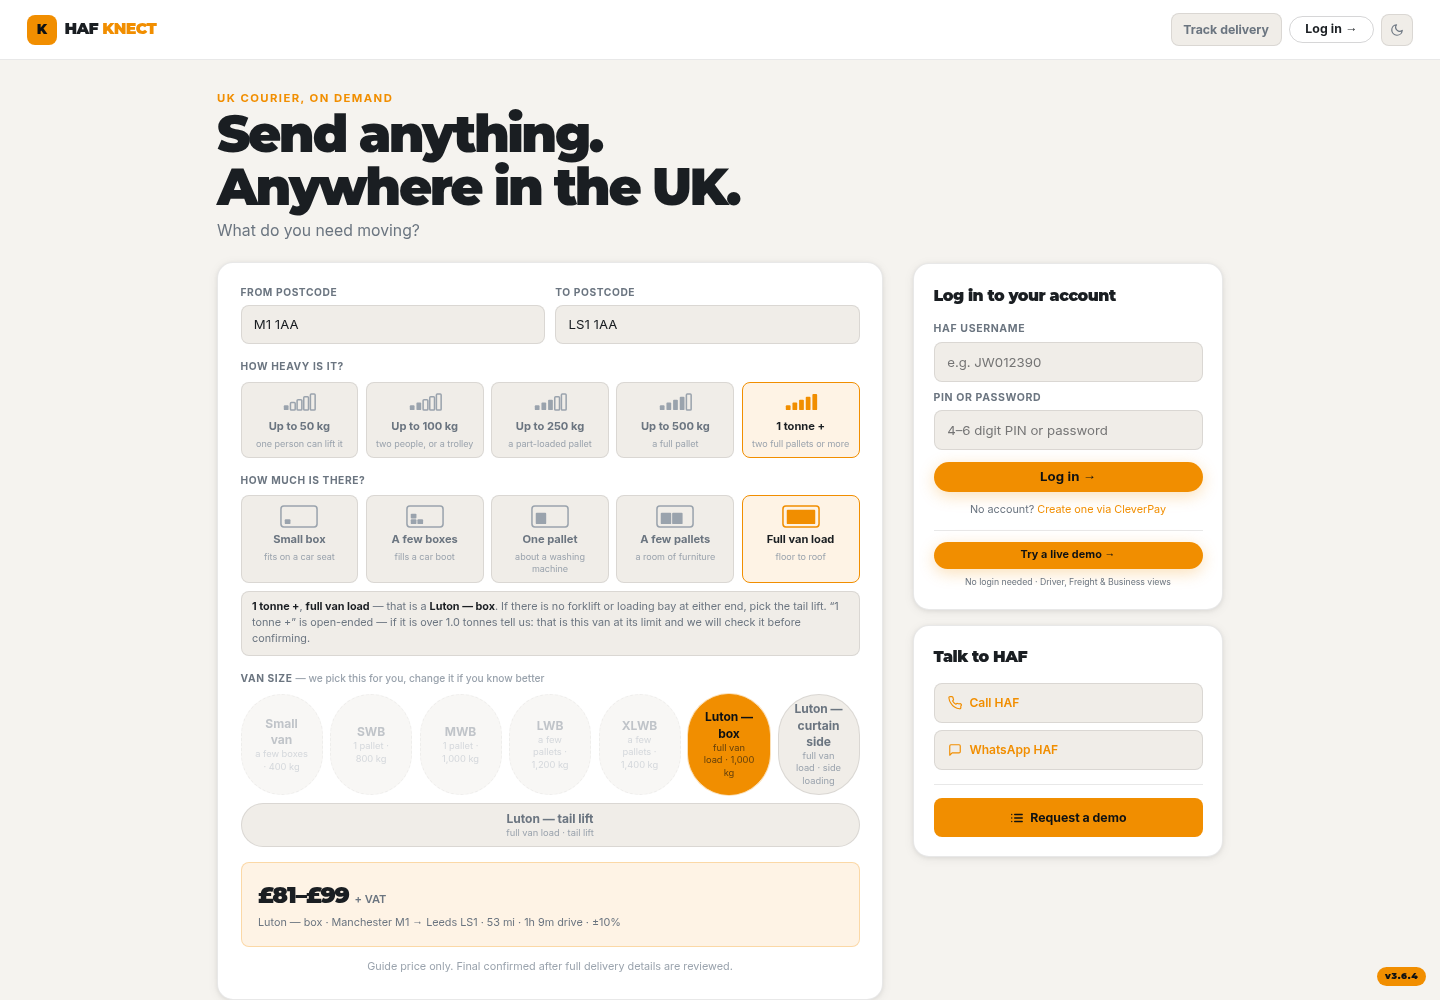
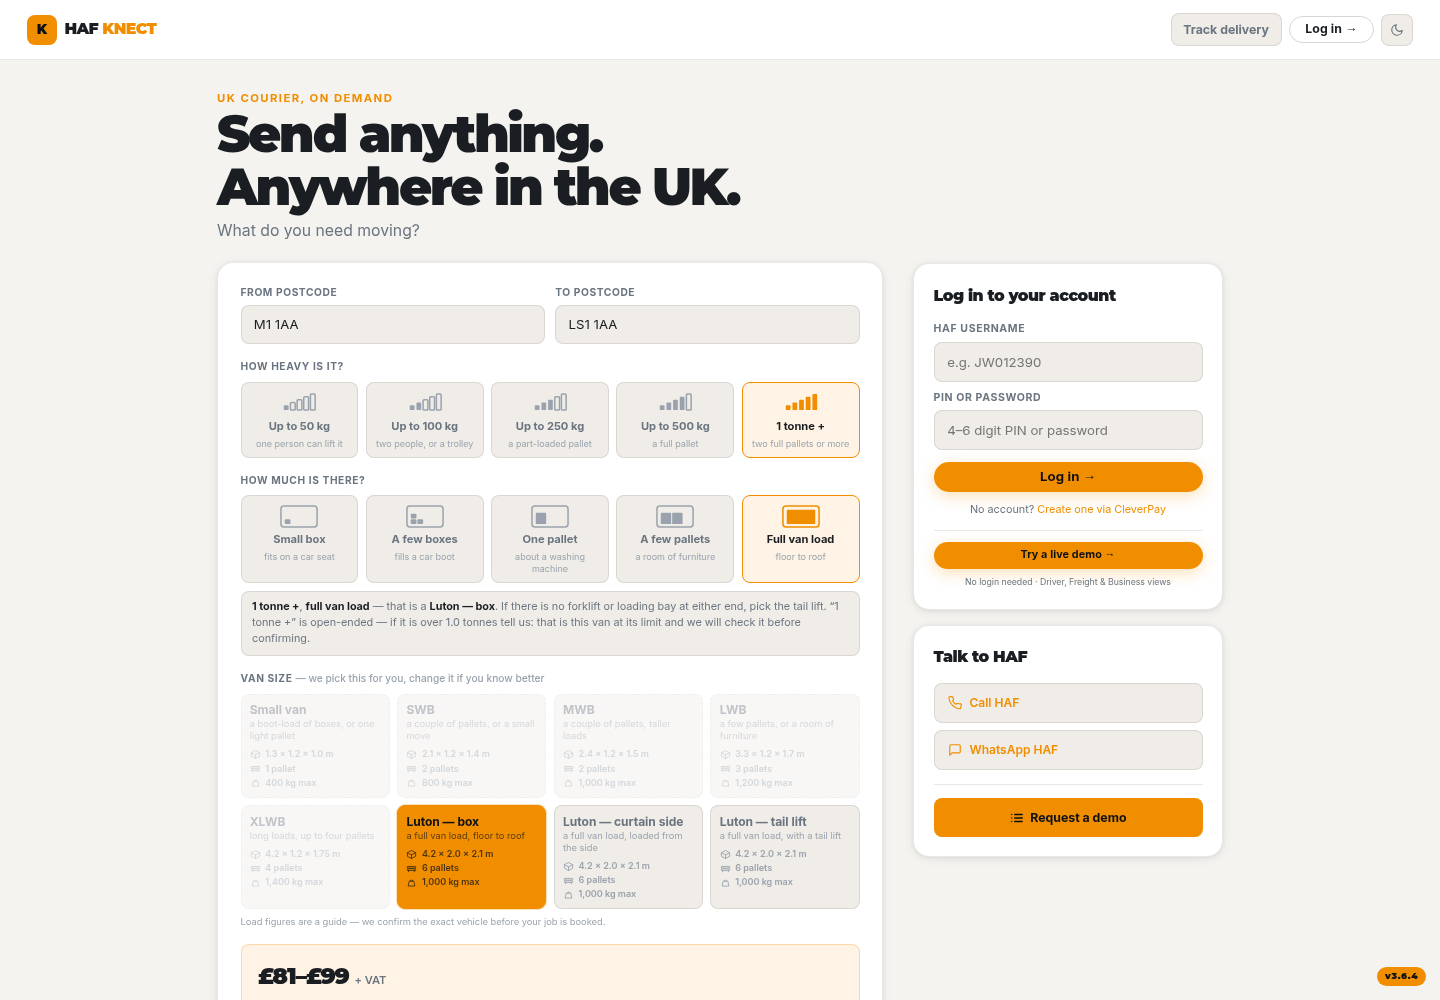
Vehicle cards in the reference layout: load space, pallets, max weight
Brent, 2 Aug, pointing at speedyfreight.com/vehicles: "fantastic layout,
just change the sizing and what can fit". Every vehicle now states the same
three facts in the same order, drawn not written, on both quote paths, built
from the vehicle table so a figure lives in one place only. Our own ladder,
nothing above a Luton. 137 checks, desktop and phone.

Changed region(s): [[0.1562, 0.682, 0.625, 1.0], [0.1875, 0.713, 0.2188, 0.744]]

diff --git a/index.html b/index.html
@@ -476,6 +476,22 @@ textarea.fi2{resize:vertical;min-height:70px}
 #van-pills{display:grid;grid-template-columns:repeat(4,1fr);gap:.5rem}
 #van-pills .vp{flex:none;min-width:0;border-radius:var(--rx);padding:.5rem .55rem}
 @media(max-width:700px){#van-pills{grid-template-columns:repeat(2,1fr)}}
+/* ── VEHICLE CARDS ──
+   Brent's reference (speedyfreight.com/vehicles): every vehicle states its load
+   space, its pallets and its max weight, in the same order, with a drawn icon on
+   each row. Same card on the front calculator and inside Fast Quote. */
+.vp.vcard,.oopt.vcard{display:flex;flex-direction:column;align-items:flex-start;text-align:left;gap:.08rem}
+.vp-n{font-weight:700;display:block;line-height:1.25}
+.oopt.vcard .vp-n{font-size:.88rem}
+.vcard .vp-sub{font-size:.62rem;font-weight:400;color:var(--su);display:block;line-height:1.3}
+.vp.sel.vcard .vp-sub{color:rgba(14,17,19,.68)}
+.oopt.vcard.sel .vp-sub{color:inherit;opacity:.8}
+.vp-spec{display:flex;flex-direction:column;gap:.1rem;margin-top:.32rem;width:100%}
+.vp-row{display:flex;align-items:center;gap:.3rem;font-size:.6rem;font-weight:600;color:var(--su);line-height:1.4}
+.vp-row svg{width:11px;height:11px;flex:none;stroke:currentColor;fill:none;stroke-width:1.3;stroke-linecap:round;stroke-linejoin:round}
+.vp.sel .vp-row{color:rgba(14,17,19,.72)}
+.oopt.vcard.sel .vp-row,.oopt.vcard:hover .vp-row{color:inherit;opacity:.78}
+.van-guide{font-size:.62rem;color:var(--su);line-height:1.45;margin:-.6rem 0 1rem}
 /* ── LOAD PICKER (how heavy / how big) ── */
 .lp-tile{background:var(--p2);border:1.5px solid var(--ln);border-radius:var(--rx);padding:.55rem .5rem .5rem;cursor:pointer;transition:all .14s;flex:1;min-width:96px;text-align:center;line-height:1.3;display:flex;flex-direction:column;align-items:center;gap:.3rem}
 .lp-tile:hover{border-color:var(--or)}
@@ -829,16 +845,11 @@ textarea.fi2{resize:vertical;min-height:70px}
         <div class="van-pills" id="sz-pills"></div>
         <div class="ld-note" id="ld-note" style="display:none"></div>
         <div class="van-lbl">Van size <span class="van-hint">— we pick this for you, change it if you know better</span></div>
-        <div class="van-pills" id="van-pills">
-          <button class="vp" data-van="small" onclick="selVan(this,'small')">Small van<span class="vp-sub">a few boxes · 400 kg</span></button>
-          <button class="vp" data-van="swb" onclick="selVan(this,'swb')">SWB<span class="vp-sub">1 pallet · 800 kg</span></button>
-          <button class="vp" data-van="mwb" onclick="selVan(this,'mwb')">MWB<span class="vp-sub">1 pallet · 1,000 kg</span></button>
-          <button class="vp sel" data-van="lwb" onclick="selVan(this,'lwb')">LWB<span class="vp-sub">a few pallets · 1,200 kg</span></button>
-          <button class="vp" data-van="xlwb" onclick="selVan(this,'xlwb')">XLWB<span class="vp-sub">a few pallets · 1,400 kg</span></button>
-          <button class="vp" data-van="luton" onclick="selVan(this,'luton')">Luton — box<span class="vp-sub">full van load · 1,000 kg</span></button>
-          <button class="vp" data-van="lutonc" onclick="selVan(this,'lutonc')">Luton — curtain side<span class="vp-sub">full van load · side loading</span></button>
-          <button class="vp" data-van="lutontl" onclick="selVan(this,'lutontl')">Luton — tail lift<span class="vp-sub">full van load · tail lift</span></button>
-        </div>
+        <!-- Vehicle cards: load space, pallets and max weight on every one, in
+             the same order on every one. Drawn from the vehicle table so a rate
+             or a capacity is only ever edited in one place. -->
+        <div class="van-pills" id="van-pills"></div>
+        <p class="van-guide">Load figures are a guide — we confirm the exact vehicle before your job is booked.</p>
         <!-- LIVE PRICE DISPLAY -->
         <div class="lp-box hint" id="lp-box">
           <div id="lp-hint-txt" class="lp-hint-txt">Enter both postcodes to see your guide price</div>
@@ -909,16 +920,8 @@ textarea.fi2{resize:vertical;min-height:70px}
             <div class="fstep" id="fq-2">
               <div class="slbl">Step 2 of 8 &#8212; Van size</div>
               <div class="ld-note" id="fq-note" style="display:none;margin:0 0 .7rem"></div>
-              <div class="ogrid" id="fq-van">
-                <button class="oopt" data-van="small" onclick="fqSelVan(this,'small')">Small van<span class="oopt-sub">a few boxes · 400 kg</span></button>
-                <button class="oopt" data-van="swb" onclick="fqSelVan(this,'swb')">SWB<span class="oopt-sub">1 pallet · 800 kg</span></button>
-                <button class="oopt" data-van="mwb" onclick="fqSelVan(this,'mwb')">MWB<span class="oopt-sub">1 pallet · 1,000 kg</span></button>
-                <button class="oopt" data-van="lwb" onclick="fqSelVan(this,'lwb')">LWB<span class="oopt-sub">a few pallets · 1,200 kg</span></button>
-                <button class="oopt" data-van="xlwb" onclick="fqSelVan(this,'xlwb')">XLWB<span class="oopt-sub">a few pallets · 1,400 kg</span></button>
-                <button class="oopt" data-van="luton" onclick="fqSelVan(this,'luton')">Luton — box<span class="oopt-sub">full van load · 1,000 kg</span></button>
-                <button class="oopt" data-van="lutonc" onclick="fqSelVan(this,'lutonc')">Luton — curtain side<span class="oopt-sub">full van load · side loading</span></button>
-                <button class="oopt" data-van="lutontl" onclick="fqSelVan(this,'lutontl')">Luton — tail lift<span class="oopt-sub">full van load · tail lift</span></button>
-              </div>
+              <div class="ogrid" id="fq-van"></div>
+              <p class="van-guide">Load figures are a guide — we confirm the exact vehicle before your job is booked.</p>
               <div class="fstep-err" id="fq-err-2"></div>
               <div class="fnav"><button class="btn btn-gh btn-sm" onclick="fqStep(1)">&#8592; Back</button><button class="btn btn-or btn-sm" onclick="fqNext(3)">Next &#8594;</button></div>
             </div>
@@ -2612,19 +2615,36 @@ const VAN={
   lutontl:{n:'Luton — tail lift'   ,drv:1.40,min:80}
 };
 /* ── WHAT EACH VAN CAN ACTUALLY CARRY ──
-   kg  = payload the vehicle is rated to carry
-   vol = the biggest load-size band it will hold (see SZ_BAND below)
-   tl  = it has a tail lift
+   Brent, 2 Aug, pointing at speedyfreight.com/vehicles: "use this as a
+   reference for sizing of the question — fantastic layout, just change the
+   sizing and what can fit." So every vehicle now carries the same five facts
+   they publish — load length, width, height, pallets, max weight — with our
+   own ladder and nothing above a Luton.
+     L/W/H = usable load space in metres
+     pal   = standard UK pallets it will take
+     kg    = payload the vehicle is rated to carry
+     vol   = the biggest load-size band it will hold (see SZ_BAND below)
+     tl    = it has a tail lift
+     fits  = the same thing said in everyday words, for the tile
    Capability, not price. This exists so a customer can never be quoted a
-   vehicle that physically cannot take what they have just described. */
-VAN.small.kg=400;    VAN.small.vol=2;   /* a few boxes   */
-VAN.swb.kg=800;      VAN.swb.vol=3;     /* one pallet    */
-VAN.mwb.kg=1000;     VAN.mwb.vol=3;     /* one pallet    */
-VAN.lwb.kg=1200;     VAN.lwb.vol=4;     /* a few pallets */
-VAN.xlwb.kg=1400;    VAN.xlwb.vol=4;    /* a few pallets */
-VAN.luton.kg=1000;   VAN.luton.vol=5;   /* full van load */
-if(VAN.lutonc){VAN.lutonc.kg=1000; VAN.lutonc.vol=5;}
-VAN.lutontl.kg=1000; VAN.lutontl.vol=5; VAN.lutontl.tl=true;
+   vehicle that physically cannot take what they have just described.
+   Figures follow the reference for the five vehicles it lists. MWB is not on
+   it, so it sits between SWB and LWB. The one deliberate departure is XLWB:
+   the reference publishes a payload BELOW its own LWB, which would make the
+   longer, dearer van the weaker one — ours keeps climbing. */
+function vanSpec(k,L,W,H,pal,kg,vol,fits){
+  const v=VAN[k]; if(!v)return;
+  v.L=L; v.W=W; v.H=H; v.pal=pal; v.kg=kg; v.vol=vol; v.fits=fits;
+}
+vanSpec('small'  ,1.3,1.2,1.00,1, 400,3,'a boot-load of boxes, or one light pallet');
+vanSpec('swb'    ,2.1,1.2,1.40,2, 800,3,'a couple of pallets, or a small move');
+vanSpec('mwb'    ,2.4,1.2,1.50,2,1000,3,'a couple of pallets, taller loads');
+vanSpec('lwb'    ,3.3,1.2,1.70,3,1200,4,'a few pallets, or a room of furniture');
+vanSpec('xlwb'   ,4.2,1.2,1.75,4,1400,4,'long loads, up to four pallets');
+vanSpec('luton'  ,4.2,2.0,2.10,6,1000,5,'a full van load, floor to roof');
+vanSpec('lutonc' ,4.2,2.0,2.10,6,1000,5,'a full van load, loaded from the side');
+vanSpec('lutontl',4.2,2.0,2.10,6,1000,5,'a full van load, with a tail lift');
+VAN.lutontl.tl=true;
 /* Cheapest first — a recommendation always lands on the least the job needs */
 const VAN_ORDER=['small','swb','mwb','lwb','xlwb','luton','lutonc','lutontl'];
 
@@ -2667,6 +2687,42 @@ const SZ_FILL=[
 ];
 function szIcon(i){
   return '<svg viewBox="0 0 40 24" aria-hidden="true"><rect x="1" y="1" width="38" height="22" rx="3"/>'+SZ_FILL[i]+'</svg>';
+}
+/* ── THE VEHICLE CARD ──
+   Every van says the same three things in the same order, drawn the same way:
+   the space inside it, the pallets it takes, the weight it is rated to. Drawn
+   icons, never emoji. Built from the table above, so a figure is changed in one
+   place and every card, every quote path and every test moves with it. */
+const SPEC_ICO={
+  dim:'<path d="M8 2.2 14 5.4v5.2L8 13.8 2 10.6V5.4z"/><path d="M2 5.4 8 8.6l6-3.2"/><path d="M8 8.6v5.2"/>',
+  pal:'<rect x="2" y="5" width="12" height="2.4" rx=".4"/><rect x="2" y="8.4" width="12" height="2.4" rx=".4"/><path d="M3.8 10.8v1.8M12.2 10.8v1.8"/>',
+  wt :'<path d="M4.6 6h6.8l1.5 7.2H3.1z"/><path d="M6.4 6a1.6 1.6 0 0 1 3.2 0"/>'
+};
+function specIco(k){return '<svg viewBox="0 0 16 16" aria-hidden="true">'+SPEC_ICO[k]+'</svg>';}
+const m1=n=>n.toFixed(2).replace(/0$/,'');
+/* The three spec rows, in the reference's order: how big, how many, how heavy */
+function vanSpecRows(k){
+  const v=VAN[k];
+  if(!v||!v.L)return '';
+  return '<span class="vp-spec">'
+    +'<span class="vp-row">'+specIco('dim')+m1(v.L)+' &#215; '+m1(v.W)+' &#215; '+m1(v.H)+' m</span>'
+    +'<span class="vp-row">'+specIco('pal')+v.pal+(v.pal===1?' pallet':' pallets')+'</span>'
+    +'<span class="vp-row">'+specIco('wt')+v.kg.toLocaleString('en-GB')+' kg max</span>'
+    +'</span>';
+}
+/* One vehicle card. `cls` and `fn` differ between the front calculator and Fast
+   Quote; everything a customer reads is identical on both. */
+function vanCardHTML(k,cls,fn){
+  const v=VAN[k];
+  return '<button class="'+cls+' vcard" type="button" data-van="'+k+'" onclick="'+fn+'(this,\''+k+'\')">'
+    +'<span class="vp-n">'+v.n+'</span>'
+    +'<span class="vp-sub">'+(v.fits||'')+'</span>'
+    +vanSpecRows(k)+'</button>';
+}
+function buildVanCards(mountId,cls,fn){
+  const el=document.getElementById(mountId);
+  if(!el)return;
+  el.innerHTML=VAN_ORDER.map(k=>vanCardHTML(k,cls,fn)).join('');
 }
 /* The smallest — and so the cheapest — van that will genuinely take this load.
    Weight and space are both hard limits; neither is allowed to be fudged. */
@@ -2924,6 +2980,9 @@ function buildLoadPickers(){
   sp.innerHTML=SZ_BAND.map((b,i)=>
     '<button class="lp-tile" type="button" data-sz="'+b.k+'" aria-pressed="false" onclick="selLoad(this,\'sz\',\''+b.k+'\')">'
     +szIcon(i)+'<span class="lp-tile-n">'+b.n+'</span><span class="lp-tile-s">'+b.s+'</span></button>').join('');
+  buildVanCards('van-pills','vp','selVan');
+  const d=document.querySelector('#van-pills .vp[data-van="'+selVanKey+'"]');
+  if(d)d.classList.add('sel');
 }
 
 function selLoad(el,kind,key){
@@ -3101,6 +3160,7 @@ function fqBuildLoad(){
   sp.innerHTML=SZ_BAND.map((b,i)=>
     '<button class="oopt gauge" type="button" onclick="fqSel(this,\'size\',\''+b.k+'\')">'
     +szIcon(i)+'<span>'+b.n+'<span class="oopt-sub">'+b.s+'</span></span></button>').join('');
+  buildVanCards('fq-van','oopt','fqSelVan');
 }
 fqBuildLoad();
 
